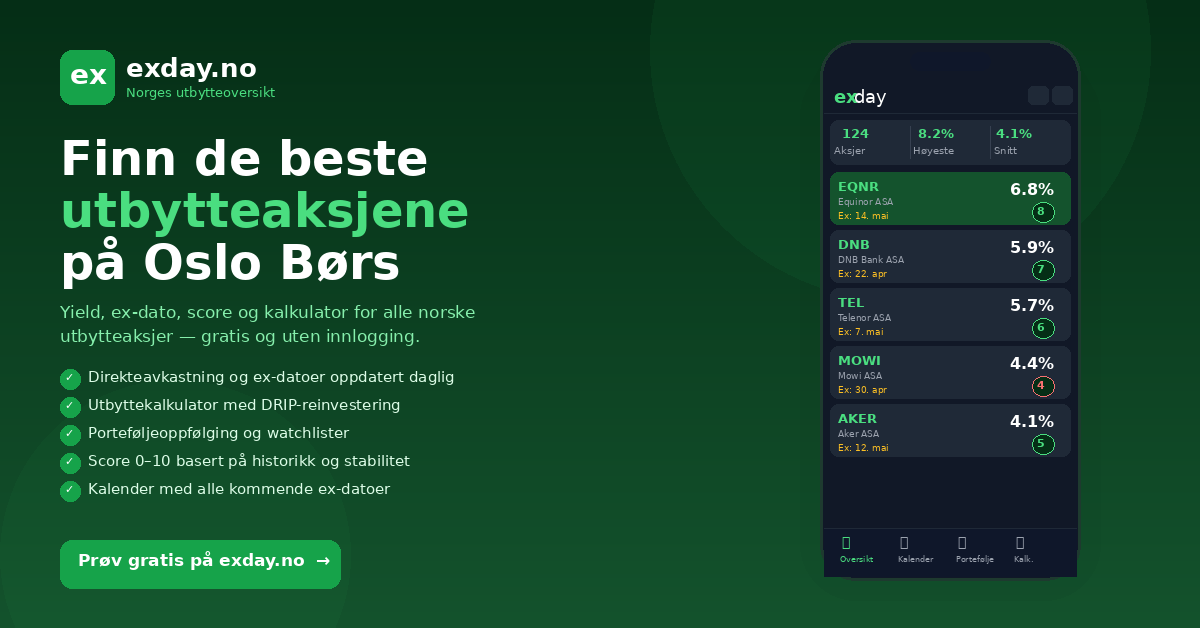
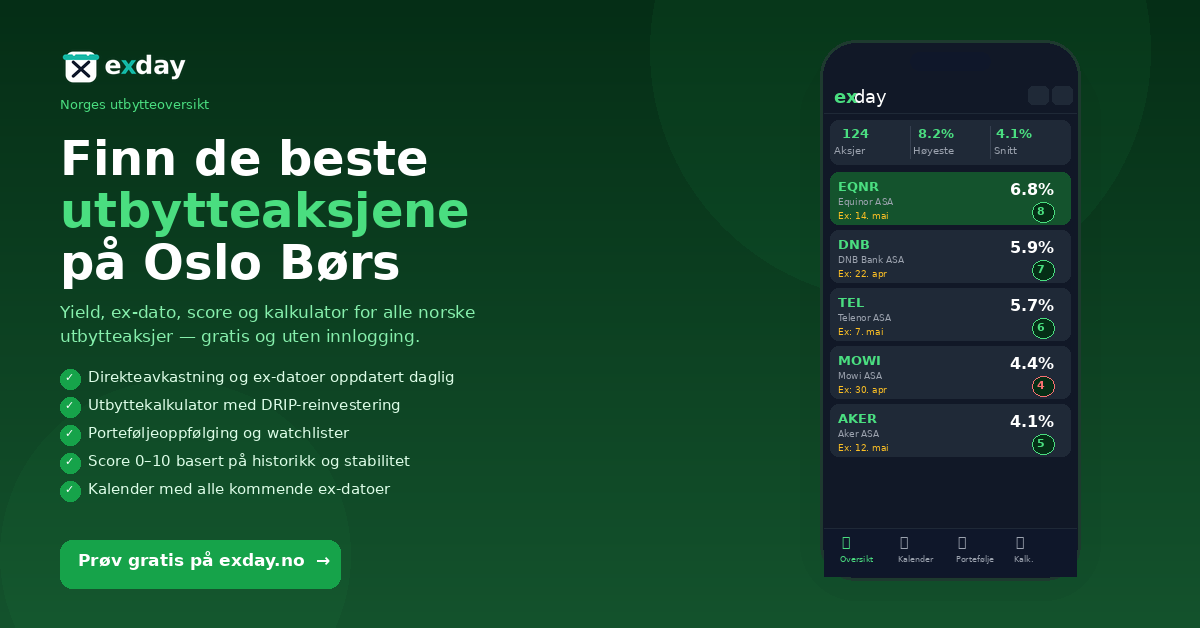
Use real exday_logo_inverse.png in Facebook promo image
https://claude.ai/code/session_01GG3ZwvsBXBLcHxAjeDK9a2

Changed region(s): [[0.0308, 0.0605, 0.2158, 0.1815]]

diff --git a/promo/generate_image.py b/promo/generate_image.py
@@ -5,24 +5,24 @@ import os
 W, H = 1200, 628
 BOLD   = "/usr/share/fonts/truetype/dejavu/DejaVuSans-Bold.ttf"
 NORMAL = "/usr/share/fonts/truetype/dejavu/DejaVuSans.ttf"
+ROOT   = os.path.join(os.path.dirname(__file__), "..")
 
 # Farger
-BG1     = (5, 46, 22)    # #052e16
-BG2     = (20, 83, 45)   # #14532d
-GREEN   = (22, 163, 74)  # #16a34a
-GREEN_L = (74, 222, 128) # #4ade80
+BG1     = (5, 46, 22)
+BG2     = (20, 83, 45)
+GREEN   = (22, 163, 74)
+GREEN_L = (74, 222, 128)
 WHITE   = (255, 255, 255)
-GRAY    = (156, 163, 175) # #9ca3af
-DARK    = (17, 24, 39)   # #111827
-CARD    = (31, 41, 55)   # #1f2937
-YELLOW  = (251, 191, 36) # #fbbf24
+GRAY    = (156, 163, 175)
+DARK    = (17, 24, 39)
+CARD    = (31, 41, 55)
+YELLOW  = (251, 191, 36)
 RED_L   = (248, 113, 113)
-TRANS_G = (34, 197, 94, 20)
 
 img = Image.new("RGB", (W, H), BG1)
 draw = ImageDraw.Draw(img)
 
-# Bakgrunnsgradient (simulert med horisontale linjer)
+# Bakgrunnsgradient
 for y in range(H):
     t = y / H
     r = int(BG1[0] + (BG2[0] - BG1[0]) * t)
@@ -30,41 +30,39 @@ for y in range(H):
     b = int(BG1[2] + (BG2[2] - BG1[2]) * t)
     draw.line([(0, y), (W, y)], fill=(r, g, b))
 
-# Dekor-sirkler (subtile)
-from PIL import ImageFilter
+# Dekor-sirkler
 circle_img = Image.new("RGBA", (W, H), (0, 0, 0, 0))
 cd = ImageDraw.Draw(circle_img)
 cd.ellipse([650, -200, 1150, 300], fill=(34, 197, 94, 15))
-cd.ellipse([0, 380, 350, 730], fill=(34, 197, 94, 10))
+cd.ellipse([0, 380, 350, 730],     fill=(34, 197, 94, 10))
 img = Image.alpha_composite(img.convert("RGBA"), circle_img).convert("RGB")
 draw = ImageDraw.Draw(img)
 
-# ── FONTER ──────────────────────────────────────────────────────────────────
 def fnt(size, bold=True):
     return ImageFont.truetype(BOLD if bold else NORMAL, size)
 
-# ── VENSTRE SIDE ─────────────────────────────────────────────────────────────
-LX = 60  # left margin
+# ── LOGO (øvre venstre) ───────────────────────────────────────────────────────
+LX = 60
+logo = Image.open(os.path.join(ROOT, "logo/exday_logo_inverse.png")).convert("RGBA")
+logo_w = 210
+logo_h = int(logo.height * logo_w / logo.width)
+logo = logo.resize((logo_w, logo_h), Image.LANCZOS)
+img_rgba = img.convert("RGBA")
+img_rgba.paste(logo, (LX, 46), logo)
+img = img_rgba.convert("RGB")
+draw = ImageDraw.Draw(img)
 
-# Logo-boks
-draw.rounded_rectangle([LX, 50, LX+54, 104], radius=12, fill=GREEN)
-draw.text((LX+10, 58), "ex", font=fnt(28), fill=WHITE)
+draw.text((LX, 46 + logo_h + 8), "Norges utbytteoversikt", font=fnt(13, bold=False), fill=GREEN_L)
 
-# Logo-tekst
-draw.text((LX+66, 52), "exday.no", font=fnt(26), fill=WHITE)
-draw.text((LX+66, 84), "Norges utbytteoversikt", font=fnt(13, bold=False), fill=GREEN_L)
+# ── TAGLINE ───────────────────────────────────────────────────────────────────
+draw.text((LX, 130), "Finn de beste",    font=fnt(48), fill=WHITE)
+draw.text((LX, 182), "utbytteaksjene",  font=fnt(48), fill=GREEN_L)
+draw.text((LX, 234), "på Oslo Børs",    font=fnt(48), fill=WHITE)
 
-# Tagline
-draw.text((LX, 130), "Finn de beste", font=fnt(48), fill=WHITE)
-draw.text((LX, 182), "utbytteaksjene", font=fnt(48), fill=GREEN_L)
-draw.text((LX, 234), "på Oslo Børs", font=fnt(48), fill=WHITE)
+draw.text((LX, 302), "Yield, ex-dato, score og kalkulator for alle norske", font=fnt(17, bold=False), fill=(134, 239, 172))
+draw.text((LX, 326), "utbytteaksjer — gratis og uten innlogging.",          font=fnt(17, bold=False), fill=(134, 239, 172))
 
-# Undertekst
-sub = "Yield, ex-dato, score og kalkulator for alle norske"
-draw.text((LX, 302), sub, font=fnt(17, bold=False), fill=(134, 239, 172))
-draw.text((LX, 326), "utbytteaksjer — gratis og uten innlogging.", font=fnt(17, bold=False), fill=(134, 239, 172))
-
-# Feature-liste
+# ── FEATURES ─────────────────────────────────────────────────────────────────
 features = [
     "Direkteavkastning og ex-datoer oppdatert daglig",
     "Utbyttekalkulator med DRIP-reinvestering",
@@ -74,7 +72,6 @@ features = [
 ]
 fy = 368
 for feat in features:
-    # Grønn sirkel/hake
     draw.ellipse([LX, fy+1, LX+20, fy+21], fill=GREEN)
     draw.text((LX+5, fy+2), "✓", font=fnt(11), fill=WHITE)
     draw.text((LX+28, fy), feat, font=fnt(15, bold=False), fill=(220, 252, 231))
@@ -85,96 +82,72 @@ btn_y = 540
 draw.rounded_rectangle([LX, btn_y, LX+280, btn_y+48], radius=12, fill=GREEN)
 draw.text((LX+18, btn_y+10), "Prøv gratis på exday.no  →", font=fnt(17), fill=WHITE)
 
-# ── HØYRE: TELEFON-MOCKUP ────────────────────────────────────────────────────
-PX = 820   # telefon x-start
-PY = 40    # telefon y-start
-PW = 260   # bredde
-PH = 540   # høyde
-PR = 36    # corner radius
+# ── TELEFON-MOCKUP ────────────────────────────────────────────────────────────
+PX, PY, PW, PH, PR = 820, 40, 260, 540, 36
 
-# Telefon-ytre (skygge)
 shadow = Image.new("RGBA", (W, H), (0, 0, 0, 0))
 sd = ImageDraw.Draw(shadow)
 for i in range(20, 0, -1):
-    sd.rounded_rectangle(
-        [PX - i, PY + i, PX + PW + i, PY + PH + i],
-        radius=PR + i, fill=(0, 0, 0, 8)
-    )
+    sd.rounded_rectangle([PX-i, PY+i, PX+PW+i, PY+PH+i], radius=PR+i, fill=(0, 0, 0, 8))
 img = Image.alpha_composite(img.convert("RGBA"), shadow).convert("RGB")
 draw = ImageDraw.Draw(img)
 
-# Telefon-ramme
 draw.rounded_rectangle([PX, PY, PX+PW, PY+PH], radius=PR, fill=(15, 23, 42), outline=(30, 58, 47), width=3)
-
-# Skjerm (indre)
 draw.rounded_rectangle([PX+3, PY+3, PX+PW-3, PY+PH-3], radius=PR-2, fill=DARK)
-
-# Notch
 draw.rounded_rectangle([PX+90, PY+12, PX+170, PY+30], radius=10, fill=(15, 23, 42))
 
-# App-header
+# App-header i mockup
 draw.rectangle([PX+4, PY+38, PX+PW-4, PY+72], fill=DARK)
 draw.text((PX+14, PY+46), "ex", font=fnt(18), fill=GREEN_L)
 draw.text((PX+34, PY+46), "day", font=fnt(18, bold=False), fill=WHITE)
-# Settings + sun ikoner
 draw.rounded_rectangle([PX+PW-52, PY+46, PX+PW-32, PY+64], radius=5, fill=CARD)
-draw.rounded_rectangle([PX+PW-28, PY+46, PX+PW-8, PY+64], radius=5, fill=CARD)
-# Separator
+draw.rounded_rectangle([PX+PW-28, PY+46, PX+PW-8,  PY+64], radius=5, fill=CARD)
 draw.line([(PX+4, PY+73), (PX+PW-4, PY+73)], fill=(31, 41, 55))
 
 # Stats-bar
 SBY = PY + 80
 draw.rounded_rectangle([PX+10, SBY, PX+PW-10, SBY+44], radius=8, fill=CARD)
-# Separator lines
-draw.line([(PX+90, SBY+6), (PX+90, SBY+38)], fill=(55, 65, 81))
+draw.line([(PX+90,  SBY+6), (PX+90,  SBY+38)], fill=(55, 65, 81))
 draw.line([(PX+170, SBY+6), (PX+170, SBY+38)], fill=(55, 65, 81))
-# Stat 1
-draw.text((PX+22, SBY+5), "124", font=fnt(13), fill=GREEN_L)
-draw.text((PX+14, SBY+24), "Aksjer", font=fnt(10, bold=False), fill=GRAY)
-# Stat 2
-draw.text((PX+98, SBY+5), "8.2%", font=fnt(13), fill=GREEN_L)
-draw.text((PX+93, SBY+24), "Høyeste", font=fnt(10, bold=False), fill=GRAY)
-# Stat 3
-draw.text((PX+176, SBY+5), "4.1%", font=fnt(13), fill=GREEN_L)
-draw.text((PX+174, SBY+24), "Snitt", font=fnt(10, bold=False), fill=GRAY)
+draw.text((PX+22,  SBY+5),  "124",     font=fnt(13),           fill=GREEN_L)
+draw.text((PX+14,  SBY+24), "Aksjer",  font=fnt(10, bold=False), fill=GRAY)
+draw.text((PX+98,  SBY+5),  "8.2%",   font=fnt(13),           fill=GREEN_L)
+draw.text((PX+93,  SBY+24), "Høyeste", font=fnt(10, bold=False), fill=GRAY)
+draw.text((PX+176, SBY+5),  "4.1%",   font=fnt(13),           fill=GREEN_L)
+draw.text((PX+174, SBY+24), "Snitt",  font=fnt(10, bold=False), fill=GRAY)
 
 # Aksje-rader
 aksjer = [
-    ("EQNR", "Equinor ASA",   "6.8%", "Ex: 14. mai", "8", GREEN_L, True),
-    ("DNB",  "DNB Bank ASA",  "5.9%", "Ex: 22. apr", "7", GREEN_L, False),
-    ("TEL",  "Telenor ASA",   "5.7%", "Ex: 7. mai",  "6", GREEN_L, False),
-    ("MOWI", "Mowi ASA",      "4.4%", "Ex: 30. apr", "4", RED_L,   False),
-    ("AKER", "Aker ASA",      "4.1%", "Ex: 12. mai", "5", GREEN_L, False),
+    ("EQNR", "Equinor ASA",  "6.8%", "Ex: 14. mai", "8", GREEN_L, True),
+    ("DNB",  "DNB Bank ASA", "5.9%", "Ex: 22. apr", "7", GREEN_L, False),
+    ("TEL",  "Telenor ASA",  "5.7%", "Ex: 7. mai",  "6", GREEN_L, False),
+    ("MOWI", "Mowi ASA",     "4.4%", "Ex: 30. apr", "4", RED_L,   False),
+    ("AKER", "Aker ASA",     "4.1%", "Ex: 12. mai", "5", GREEN_L, False),
 ]
-
 AY = SBY + 52
 for ticker, name, yld, ex, score, score_col, highlight in aksjer:
-    row_bg = (20, 83, 45) if highlight else CARD
-    draw.rounded_rectangle([PX+10, AY, PX+PW-10, AY+52], radius=8, fill=row_bg)
-    # Ticker
-    draw.text((PX+18, AY+6),  ticker, font=fnt(13), fill=GREEN_L)
+    bg = (20, 83, 45) if highlight else CARD
+    draw.rounded_rectangle([PX+10, AY, PX+PW-10, AY+52], radius=8, fill=bg)
+    draw.text((PX+18, AY+6),  ticker, font=fnt(13),            fill=GREEN_L)
     draw.text((PX+18, AY+24), name,   font=fnt(9, bold=False), fill=GRAY)
     draw.text((PX+18, AY+38), ex,     font=fnt(9, bold=False), fill=YELLOW)
-    # Yield
-    draw.text((PX+PW-70, AY+8), yld, font=fnt(16), fill=WHITE)
-    # Score-sirkel
+    draw.text((PX+PW-70, AY+8), yld,  font=fnt(16),            fill=WHITE)
     draw.ellipse([PX+PW-48, AY+30, PX+PW-26, AY+50], outline=score_col, width=1, fill=BG1)
-    draw.text((PX+PW-43, AY+32), score, font=fnt(11), fill=score_col)
+    draw.text((PX+PW-43, AY+32), score, font=fnt(11),          fill=score_col)
     AY += 58
 
 # Tab-bar
 TBY = PY + PH - 52
 draw.rectangle([PX+4, TBY, PX+PW-4, PY+PH-4], fill=(15, 23, 42))
 draw.line([(PX+4, TBY), (PX+PW-4, TBY)], fill=CARD)
-tabs = [("📊", "Oversikt"), ("📅", "Kalender"), ("💼", "Portefølje"), ("🧮", "Kalk.")]
 tx = PX + 22
-for i, (icon, label) in enumerate(tabs):
+for i, (icon, label) in enumerate([("📊","Oversikt"),("📅","Kalender"),("💼","Portefølje"),("🧮","Kalk.")]):
     col = GREEN_L if i == 0 else GRAY
-    draw.text((tx, TBY+6),  icon,  font=fnt(14, bold=False), fill=col)
-    draw.text((tx-2, TBY+26), label, font=fnt(8, bold=False),  fill=col)
+    draw.text((tx,   TBY+6),  icon,  font=fnt(14, bold=False), fill=col)
+    draw.text((tx-2, TBY+26), label, font=fnt(8,  bold=False), fill=col)
     tx += 58
 
-# ── LAGRE ────────────────────────────────────────────────────────────────────
+# ── LAGRE ─────────────────────────────────────────────────────────────────────
 out = os.path.join(os.path.dirname(__file__), "facebook-post.png")
 img.save(out, "PNG", optimize=True)
 print(f"Lagret: {out}  ({W}x{H}px)")
